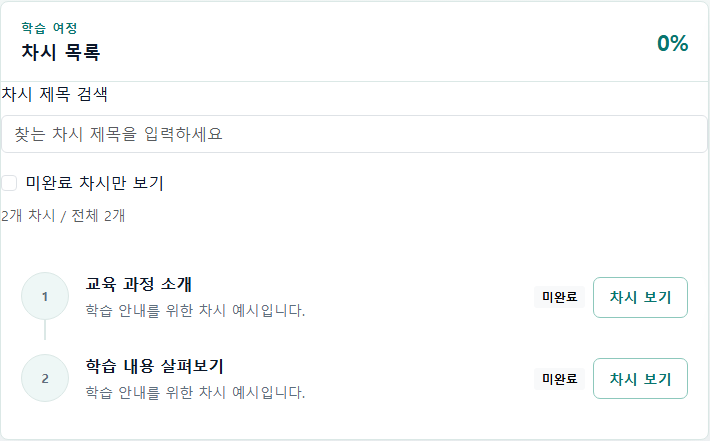
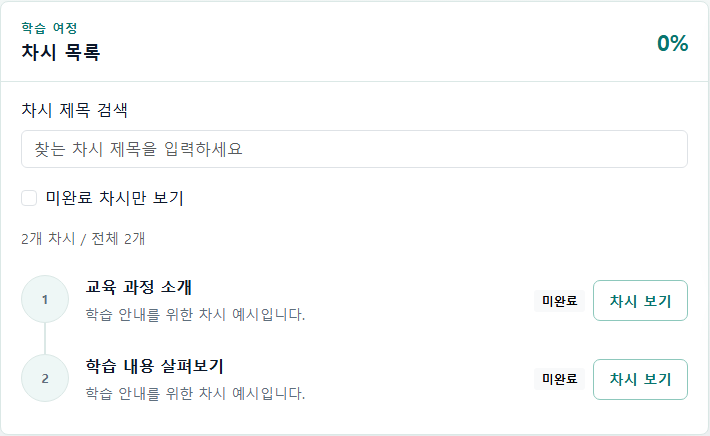
Align lesson search and timeline spacing across learning pages

diff --git a/static/css/mobile.css b/static/css/mobile.css
@@ -48,6 +48,20 @@
 .catalog-search input { min-width: 0; }
 .filter-checkbox { display: flex; align-items: center; gap: 8px; min-height: 44px; cursor: pointer; }
 .filter-checkbox input { margin-top: 0; }
+.lesson-filter:not([hidden]) { display: grid; gap: .5rem; margin-bottom: 1rem; }
+.lesson-filter .form-label { margin: 0; line-height: 1.5; }
+.lesson-filter [data-filter-count] { line-height: 1.5; }
+.timeline-panel > .lesson-filter { margin: 0; padding: 1rem 1.25rem .75rem; }
+.timeline-panel > [data-filter-empty] { margin: 0; padding: .5rem 1.25rem 1rem; line-height: 1.6; }
+.timeline-panel .learning-timeline { padding: 0 1.25rem 1rem; }
+.timeline-panel .timeline-step { padding: .875rem 0; row-gap: .75rem; }
+.timeline-panel .timeline-step:not(:last-child)::after { top: 3.875rem; bottom: -.875rem; }
+.timeline-step-title { line-height: 1.5; }
+.timeline-step-desc { margin-top: .25rem; line-height: 1.6; overflow-wrap: anywhere; }
+.timeline-step-action:empty { display: none; }
+@media (max-width: 575.98px) {
+  .timeline-panel .timeline-step:not(:last-child)::after { left: 1.225rem; top: 3.425rem; }
+}
 [data-filter-item][hidden], #playbackNotice[hidden], #lessonEndActions[hidden] { display: none !important; }
 .recent-learning { border-color: #a9d9d6; background: #f4fbfa; }
 .page-header .btn-outline-primary, .page-header .btn-outline-secondary { color: #075e5a; border-color: #97c8c4; background: white; }

diff --git a/templates/includes/lesson_filter.html b/templates/includes/lesson_filter.html
@@ -1,7 +1,7 @@
-<div class="lesson-filter mb-3" data-filter-controls hidden>
+<div class="lesson-filter" data-filter-controls hidden>
   <label class="form-label" for="lessonSearch">차시 제목 검색</label>
   <input class="form-control" id="lessonSearch" type="search" maxlength="100" placeholder="찾는 차시 제목을 입력하세요" data-filter-query>
-  {% if not catalog %}<label class="filter-checkbox mt-2"><input class="form-check-input" type="checkbox" data-filter-incomplete> 미완료 차시만 보기</label>{% endif %}
+  {% if not catalog %}<label class="filter-checkbox"><input class="form-check-input" type="checkbox" data-filter-incomplete> 미완료 차시만 보기</label>{% endif %}
   <p class="small text-muted mb-0" role="status" aria-live="polite" data-filter-count></p>
 </div>
 <p class="text-muted" data-filter-empty hidden>조건에 맞는 차시가 없습니다. {% if catalog %}다른 검색어를 입력해 주세요.{% else %}검색어나 미완료 조건을 변경해 주세요.{% endif %}</p>

diff --git a/templates/core/help.html b/templates/core/help.html
@@ -55,7 +55,7 @@
 </div>
 {% include "includes/support_contact.html" with support_page=True %}
 <div class="card mt-3"><div class="card-body d-flex flex-wrap gap-3 align-items-center justify-content-between">
-  <div><h2 class="h5">아카데미 이용 가이드</h2><p class="mb-0">회원가입부터 신청·시청·재수강까지 한 번에 확인하세요. 2026년 9월 21일 개정본.</p></div>
-  <a class="btn btn-primary" href="{% static 'docs/onedu-student-user-manual.pdf' %}?v=20260921" download="위드브레인_아카데미_이용_가이드.pdf">이용 가이드 PDF 다운로드</a>
+  <div><h2 class="h5">아카데미 이용 가이드</h2><p class="mb-0">회원가입부터 신청·시청·재수강까지 한 번에 확인하세요. 2026년 9월 22일 개정본.</p></div>
+  <a class="btn btn-primary" href="{% static 'docs/onedu-student-user-manual.pdf' %}?v=20260922" download="위드브레인_아카데미_이용_가이드.pdf">이용 가이드 PDF 다운로드</a>
 </div></div>
 {% endblock %}

diff --git a/templates/base.html b/templates/base.html
@@ -32,7 +32,7 @@
   <meta name="twitter:image:alt" content="위드브레인연구소 로고">
   <link href="https://cdn.jsdelivr.net/npm/bootstrap@5.3.3/dist/css/bootstrap.min.css" rel="stylesheet">
   <link href="{% static 'css/app.css' %}?v=20260918-benefit-fade" rel="stylesheet">
-  <link href="{% static 'css/mobile.css' %}?v=20260921-help" rel="stylesheet">
+  <link href="{% static 'css/mobile.css' %}?v=20260922-spacing" rel="stylesheet">
   <script src="{% static 'js/mobile_ui.js' %}?v=20260918-benefit-fade" defer></script>
   <link rel="stylesheet" href="{% static 'css/form_feedback.css' %}?v=20260918">
   <script src="{% static 'js/form_feedback.js' %}?v=20260918" defer></script>

diff --git a/templates/core/home.html b/templates/core/home.html
@@ -225,7 +225,7 @@
         </div>
         <a
           class="btn btn-primary btn-sm"
-          href="{% static 'docs/onedu-student-user-manual.pdf' %}?v=20260921"
+          href="{% static 'docs/onedu-student-user-manual.pdf' %}?v=20260922"
           download="위드브레인_아카데미_이용_가이드.pdf"
         >
           <span>이용 가이드</span>

diff --git a/core/tests.py b/core/tests.py
@@ -42,7 +42,7 @@ class HomePageTests(TestCase):
         self.assertEqual(response.status_code, 200)
         self.assertContains(response, 'tel:025697308')
         self.assertContains(response, 'mailto:withbrain77@daum.net')
-        self.assertContains(response, 'docs/onedu-student-user-manual.pdf?v=20260921')
+        self.assertContains(response, 'docs/onedu-student-user-manual.pdf?v=20260922')
         for section in ['playback', 'payment', 'access', 'progress', 'account', 'shortcut']:
             self.assertContains(response, f'id="{section}"')
 
@@ -66,7 +66,7 @@ class HomePageTests(TestCase):
         self.assertContains(response, '아카데미 이용 가이드')
         self.assertContains(response, '<span>이용 가이드</span>', html=True)
         self.assertContains(response, '<span>다운로드</span>', html=True)
-        self.assertContains(response, 'docs/onedu-student-user-manual.pdf?v=20260921')
+        self.assertContains(response, 'docs/onedu-student-user-manual.pdf?v=20260922')
         self.assertContains(response, '위드브레인_아카데미_이용_가이드.pdf')
         self.assertNotContains(response, 'portal-manual-mark')
         self.assertContains(response, 'WITHBRAIN')

diff --git a/docs/student-guide-assets/README.md b/docs/student-guide-assets/README.md
@@ -4,7 +4,7 @@
 - 배포 파일: `static/docs/onedu-student-user-manual.pdf`
 - 생성: `python tools/build_student_guide.py`
 - 한글 글꼴을 자동으로 찾지 못하면 `--font /path/to/Korean.ttf`를 지정합니다. ReportLab이 설치된 Python 환경이 필요합니다.
-- `catalog.png`, `classroom.png`는 2026-09-21 현재 템플릿을 사용하는 로컬 화면입니다. 안내용 계정과 예시 강의만 사용했으며 실제 회원 정보는 포함하지 않습니다.
+- `catalog.png`는 2026-09-21, `classroom.png`는 2026-09-22 템플릿을 사용하는 로컬 화면입니다. 안내용 계정과 예시 강의만 사용했으며 실제 회원 정보는 포함하지 않습니다.
 
 내용이나 UI가 바뀌면 원본과 필요한 화면 예시를 갱신하고 PDF를 다시 생성합니다. 생성 후 각 페이지를 렌더링해 한글, 줄바꿈, 사진 크기, 페이지 넘침을 확인합니다. 홈 및 도움말 페이지의 PDF 링크 버전과 개정일도 함께 갱신합니다.
 
